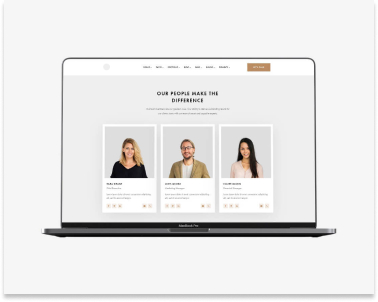
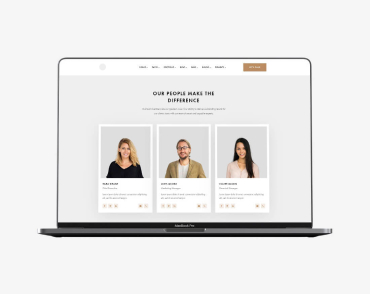
17.08
исправления

diff --git a/css/styles.css b/css/styles.css
@@ -1,99 +1,120 @@
-:root{
-    --main-title-color: #212121;
-    --secondary-title-color: #ffffff;
-    --main-text-color: #757575;
-    --accent-color: #2196f3; 
+:root {
+    --page-text: #212121;
+    --primary-text-color: #757575;
+    --secondary-text-color: #2196f3;
+    --third-text-color: #ffffff;
+    --primary-background-color: #ffffff;
+    --secondary-background-color: #f5f4fa;
+  }
+  
+body {
+    font-family: 'Roboto', sans-serif;
+    background: var(--primary-background-color);
+    color: var(--page-text);
+    font-size: 16px;
+    font-style: normal;
+  }
+
+ /*header*/
+  
+  .header-logo {
+    font-family: 'Raleway', sans-serif;
+    text-decoration: none;
+    font-weight: 700;
+    font-size: 26px;
+    line-height: 1.192;
+    letter-spacing: 0.03em;
+    color: var(--secondary-text-color)
 }
 
-body{
-    font-family:"Open Sans", sans-serif;
+.header-accent {
+    color: #000000;
 }
 
 .list {
     list-style: none;
-  }
-.link {
     text-decoration: none;
-  }
-
-  /*header*/
-  
-  .header-logo {
-    font-family: Raleway;
     font-style: normal;
-    font-weight: 700;
-    font-size: 26px;
-    line-height: 1.19;
-    letter-spacing: 0.03em;
-    color: #2196f3;
-}
-
-.header-accent {
-    color:#000000;
-}
+  }
 
 .header-link {
+    color: var(--page-text);
+    text-decoration: none;
     font-weight: 500;
     font-size: 14px;
     line-height: 1.14;
     letter-spacing: 0.02em;
-    color: #212121;
 }
+
+.nav {
+    color: var(--secondary-text-color);
+  }
+  
 
 .header-link:hover,
 .header-link:focus {
-  color: var(--accent-color);
+    color: var(--secondary-text-color);
 }
 
-.header-email{
-    color:#757575;
+.nav-contacts{
+    color: var(--primary-text-color);
+    text-decoration: none;
     font-weight: 500;
     font-size: 14px;
     line-height: 1.14;
     letter-spacing: 0.02em;
 }
 
-.header-tel{
-    color: #757575;
-    font-weight: 500;
-    font-size: 14px;
-    line-height: 1.14;
-    letter-spacing: 0.02em;
+.nav-contacts:hover,
+.nav-contacts:focus{
+    color: var(--secondary-text-color);
 }
+
 
   /*hero-section*/
-
-.hero-section{
-    background-color: #2f303a;;
-}
-
-h1{
-    color: var (--secondary-title-color);
-}
-
 .btn{
-    color: #ffffff;
-    background-color: var(--accent-color);
+    color: var(--third-text-color);
+    background-color: var(--secondary-text-color);
+    border: 1px solid transparent;
+    border-radius: 4px;
+    cursor: pointer;
+}
+
+.button:hover,
+.button:focus,
+.button:active {
+  background-color: #188ce8;
 }
 
 /*abilities of the company*/
 
+.hidden {
+    display: none; /* hidden-simantic */
+  }
+
+.hero-title{
+    color: var(--third-text-color);
+    font-weight: 900;
+    font-size: 44px;
+    line-height: 1.36;
+    text-align: center;
+    letter-spacing: 0.06em;
+    text-transform: uppercase;
+}
 .ability-title{
+    color: var(--page-text);
     font-weight: 700;
     font-size: 14px;
     line-height: 1.14;
     letter-spacing: 0.03em;
     text-transform: uppercase;
-    color: var(--main-title-color);
 }
 
 .ability-text{
-    font-weight: 400;
+    color: var(--primary-text-color);
     font-size: 14px;
     line-height: 1.71;
     letter-spacing: 0.03em;
-    color: var(--main-text-color);
-
 }
 
 /*what company made*/
@@ -104,39 +125,37 @@ h1{
     line-height: 1.16;
     text-align: center;
     letter-spacing: 0.03em;
-    color: var(--main-title-color);
 }
 /*members of the company*/
 
 .company-members{
-    background-color: #f5f4fa;
+    background-color: var(--secondary-background-color);
 }
 
 .members-title{
+    color: var(--page-text);
     font-weight: 700;
     font-size: 36px;
     line-height: 1.16;
     text-align: center;
     letter-spacing: 0.03em;
-    color: var(--main-title-color);
 }
 
 .mamber-name{
+    color: var(--page-text);
     font-weight: 500;
     font-size: 16px;
-    line-height: 1.19;
+    line-height: 1.18;
     text-align: center;
     letter-spacing: 0.03em;
-    color: var(--main-title-color);
 }
 
 .skill{
-    font-weight: 400;
+    color: var(--primary-text-color);
     font-size: 16px;
-    line-height: 1.19;
+    line-height: 1.18;
     text-align: center;
     letter-spacing: 0.03em;
-    color: var(--main-text-color);
 }
 
 /*footer*/
@@ -146,13 +165,10 @@ h1{
 }
 
 .footer-logo{
-    font-family: Raleway;
-    font-style: normal;
-    font-weight: 700;
-    font-size: 26px;
-    line-height: 1.19;
+    color: rgb(255, 255, 255, 0.6);
+    font-size: 14px;
+    line-height: 1.71;
     letter-spacing: 0.03em;
-    color: #2196f3;
 }
 
 .footer-accent {

diff --git a/index.html b/index.html
@@ -20,27 +20,29 @@
 
             <!--links for navigation on the page-->
             <ul class="header-list list">
-                <li class="header-item"><a class="header-link link" href="./index.html">Студия</a></li>
-                <li class="header-item"><a class="header-link link" href="./portfolio.html">Портфолио</a></li>
-                <li class="header-item"><a class="header-link link" href="">Контакты</a></li>
+                <li class="header-item"><a class="header-link nav" href="./index.html">Студия</a></li>
+                <li class="header-item"><a class="header-link" href="./portfolio.html">Портфолио</a></li>
+                <li class="header-item"><a class="header-link" href="">Контакты</a></li>
             </ul>
         </nav>
         <!--contacts-->
-        <ul class="header-contacts">
-            <li class="header-email"><a href="mailto:info@devstudio.com">info@devstudio.com</a></li>
-            <li class="header-tel"><a href="tel:+380961111111"></a>+38 096 111 11 11</li>
+        <ul class="contacts-list">
+            <li><a class="nav-contacts" href="mailto:info@devstudio.com">info@devstudio.com</a></li>
+            <li><a class="nav-contacts" href="tel:+380961111111"></a>+38 096 111 11 11</li>
         </ul>
     </header>
     <!--hero-->
     <main>
         <section class="hero-section">
-            <h1>Эффективные решения для вашего бизнеса</h1>
-            <button class="btn" type="button" value="Заказать услугу"></button>
+            <img src="./images/bg.jpg" alt="herobg" width="1600" height="600">
+            <h1 class="hero-title">Эффективные решения для вашего бизнеса</h1>
+            <button class="btn" type="button">Заказать услугу</button>
         </section>
 
         <!--abilities of the company-->
         <section class="ability-section">
-            <h2>Способности компании</h2>
+            <!--for-simantic-->
+            <h2 class="hidden">Способности компании</h2>
             <ul class="ability-list list">
                 <li class="ability-item">
                     <h3 class="ability-title">Внимание к деталям</h3>
@@ -89,7 +91,7 @@
                 <li class="members-item">
                     <img src="./images/olga-repyna.jpg" alt="olga-repyna" width="270" height="260">
                     <h3 class="mamber-name">Ольга Репина</h3>
-                    <p class="skillt">Frontend Developer</p>
+                    <p class="skill">Frontend Developer</p>
                 </li>
                 <li class="members-item">
                     <img src="./images/nikolay-tarasov.jpg" alt="nikolay-tarasov" width="270" height="260">
